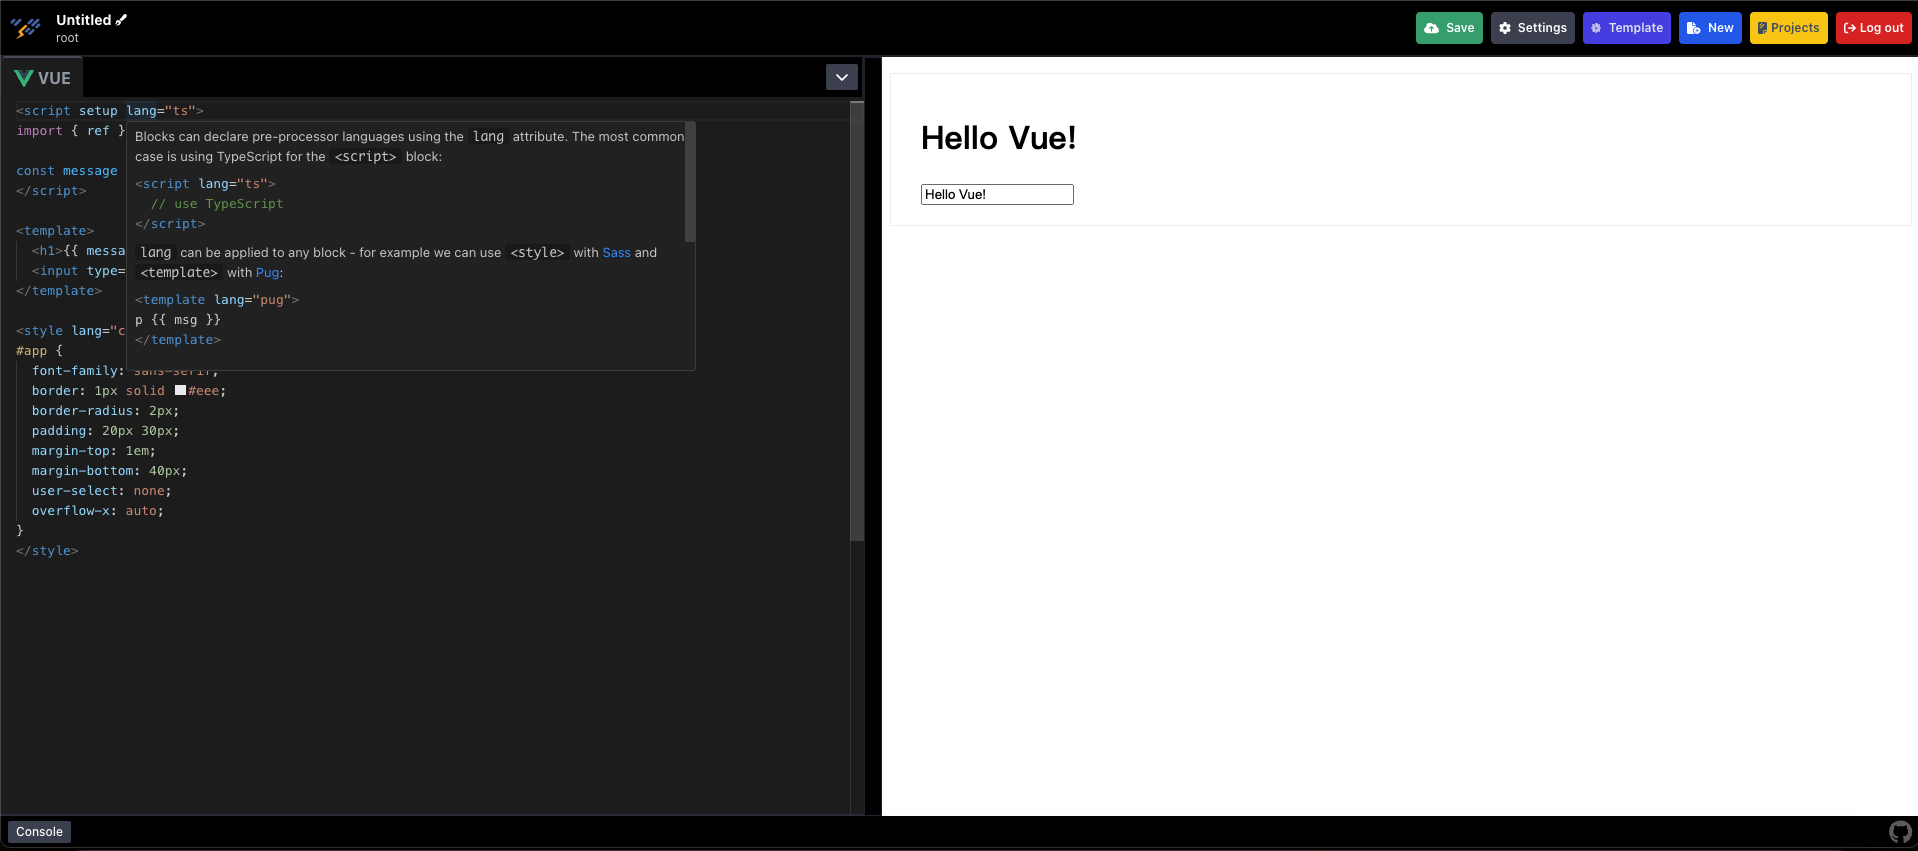
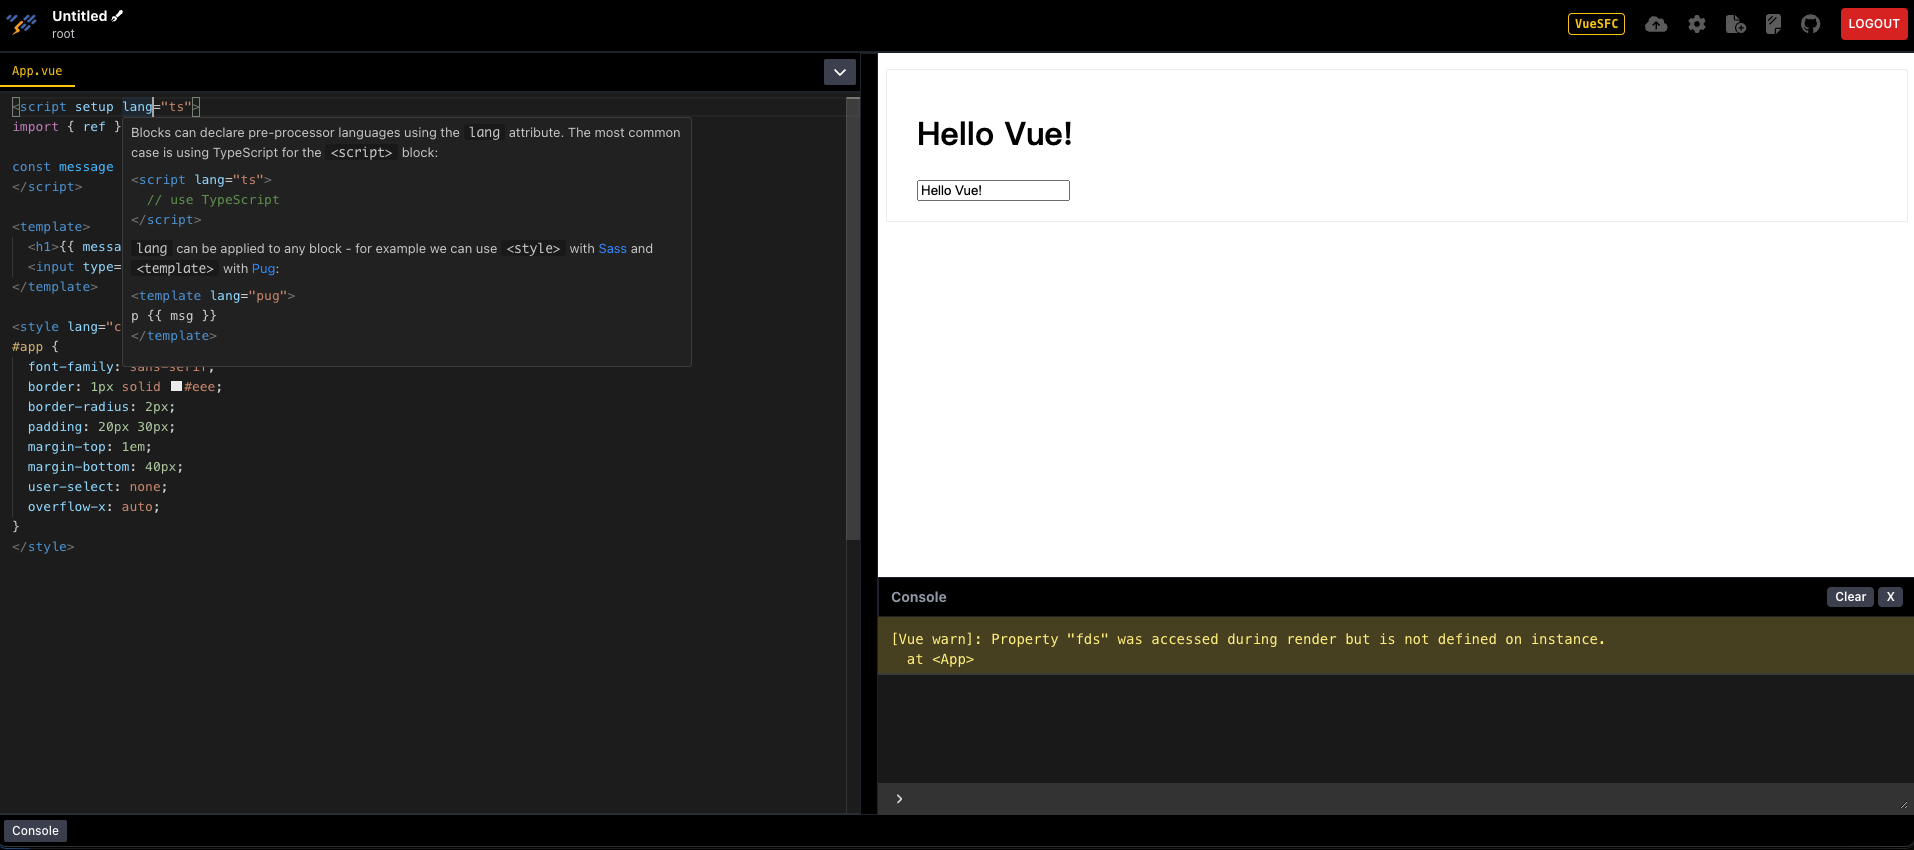
feat: code wrapper and preview width stored to localStorage

Changed region(s): [[0.0, 0.0, 1.0, 1.0], [0.0, 0.6424, 0.0308, 0.6729]]

diff --git a/src/__tests__/unit/components/CodeEditor.test.ts b/src/__tests__/unit/components/CodeEditor.test.ts
@@ -13,8 +13,9 @@ describe('CodeEditor Component', async () => {
 
   it('renders the editor', async () => {
     renderComponent(CodeEditor, { props: { model: 'HTML' } });
-    expect(screen.getByTitle('codeEditor')).toBeInTheDocument();
-    expect(screen.getByTitle('codeEditor').dataset.modeId).toMatch('html');
+
+    expect(screen.getByLabelText(/code-editor/)).toBeInTheDocument();
+    expect(screen.getByLabelText(/code-editor/).dataset.modeId).toMatch('html');
   });
 
   it('change to markdown language', async () => {
@@ -23,13 +24,13 @@ describe('CodeEditor Component', async () => {
     renderComponent(CodeEditor, { props: { model: 'HTML' } });
     codeContentStore.setCodeLanguage({ type: 'HTML', language: 'Markdown' });
     await nextTick();
-    expect(screen.getByTitle('codeEditor').dataset.modeId).toMatch('markdown');
+    expect(screen.getByLabelText(/code-editor/).dataset.modeId).toMatch('markdown');
     codeContentStore.setCodeTemplate('Vue');
   });
 
   it('render vue template editor', async () => {
     renderComponent(CodeEditor, { props: { model: 'VUE' } });
-    expect(screen.getByTitle('codeEditor').dataset.modeId).toMatch('vue');
+    expect(screen.getByLabelText(/code-editor/).dataset.modeId).toMatch('vue');
   });
 
   it('formatter editor', async () => {

diff --git a/src/store/modules/codeContent.ts b/src/store/modules/codeContent.ts
@@ -9,6 +9,8 @@ interface CodeContentStore {
   codeId: string;
   codeTitle: string;
   currentModel: CodeModel;
+  offsetCodeWrap: string;
+  previewWidth: string;
 }
 
 const defaultState: CodeContentStore = {
@@ -36,6 +38,8 @@ const defaultState: CodeContentStore = {
   codeId: '',
   codeTitle: '',
   currentModel: 'HTML',
+  offsetCodeWrap: '45vw',
+  previewWidth: '55vw',
 };
 
 type CodeMap = Partial<typeof defaultState.codeContent>;
@@ -77,6 +81,6 @@ export default defineStore('code_immediate_content', {
   },
   persist: {
     storage: localStorage,
-    paths: ['codeContent', 'codeTemplate', 'codeTitle', 'currentModel'],
+    paths: ['codeContent', 'codeTemplate', 'codeTitle', 'currentModel', 'offsetCodeWrap', 'previewWidth'],
   },
 });

diff --git a/src/pages/HomePage.vue b/src/pages/HomePage.vue
@@ -15,9 +15,7 @@ import type { CodeModel } from '@/types/codeContent';
 
 const isShowPreview = ref(true);
 const iframe = ref(null);
-const previewWidth = ref('55vw');
-const offsetCodeWrap = ref('45vw');
-const { isSFC, codeId, currentModel } = storeToRefs(useCodeContentStore());
+const { isSFC, codeId, currentModel, previewWidth, offsetCodeWrap } = storeToRefs(useCodeContentStore());
 const router = useRouter();
 const route = useRoute();
 let previousModel: CodeModel = 'HTML';

diff --git a/src/style/common/scrollbar.css b/src/style/common/scrollbar.css
@@ -2,14 +2,14 @@
 
 @layer components {
   ::-webkit-scrollbar {
-    @apply w-1 h-1 lg:w-2 lg:h-2;
+    @apply w-1 h-1 lg:w-1.5 lg:h-1.5;
   }
- 
+
   ::-webkit-scrollbar-track {
-    @apply rounded-xl bg-gray-200;
+    @apply rounded-xl bg-gray-500/20;
   }
 
   ::-webkit-scrollbar-thumb {
-    @apply rounded-xl bg-gray-400;
+    @apply rounded-xl bg-gray-500/40 cursor-pointer transition-colors hover:bg-gray-500/50;
   }
 }

diff --git a/src/components/CodeConsole.vue b/src/components/CodeConsole.vue
@@ -57,10 +57,7 @@ async function wrapScrollToBottom() {
 }
 
 watch([isCreateProject, codeId], clearConsole);
-watch(
-  () => isShowConsole,
-  isShow => isShow && wrapScrollToBottom(),
-);
+watch(isShowConsole, wrapScrollToBottom);
 onMounted(() => window.addEventListener('message', receiveMessage));
 onBeforeUnmount(() => window.removeEventListener('message', receiveMessage));
 </script>

diff --git a/src/hooks/useMonacoEditor.ts b/src/hooks/useMonacoEditor.ts
@@ -61,6 +61,7 @@ export default function useMonacoEditor() {
     theme.semanticHighlighting = true;
     theme.getTokenStyleMetadata = (type: string, modifiers: string[]) => {
       const _readonly = modifiers.includes('readonly');
+
       switch (type) {
         case 'function':
         case 'method':

diff --git a/src/components/ProjectsPopup.vue b/src/components/ProjectsPopup.vue
@@ -157,7 +157,7 @@ onMounted(getProjects);
         />
       </ul>
 
-      <div class="flex justify-center gap-2 mt-3">
+      <div class="flex justify-center gap-2 mt-3 h-9">
         <loading-button
           v-show="page !== 1"
           class="btn btn_yellow w-auto"

diff --git a/src/components/CodeEditor.vue b/src/components/CodeEditor.vue
@@ -72,8 +72,8 @@ onBeforeUnmount(() => {
   <div class="code_editor">
     <div
       ref="codeEditor"
-      title="codeEditor"
       class="w-full h-full"
+      aria-label="code-editor"
     ></div>
     <div
       v-if="isCodeLoading"

diff --git a/src/style/common/popup.css b/src/style/common/popup.css
@@ -23,6 +23,9 @@
       bg-yellow-400
       p-3
       rounded-t-md;
+      svg {
+        @apply text-base transition-[colors_transform] hover:text-gray-600 active:scale-90;
+      }
     }
     &_content {
       @apply px-4
